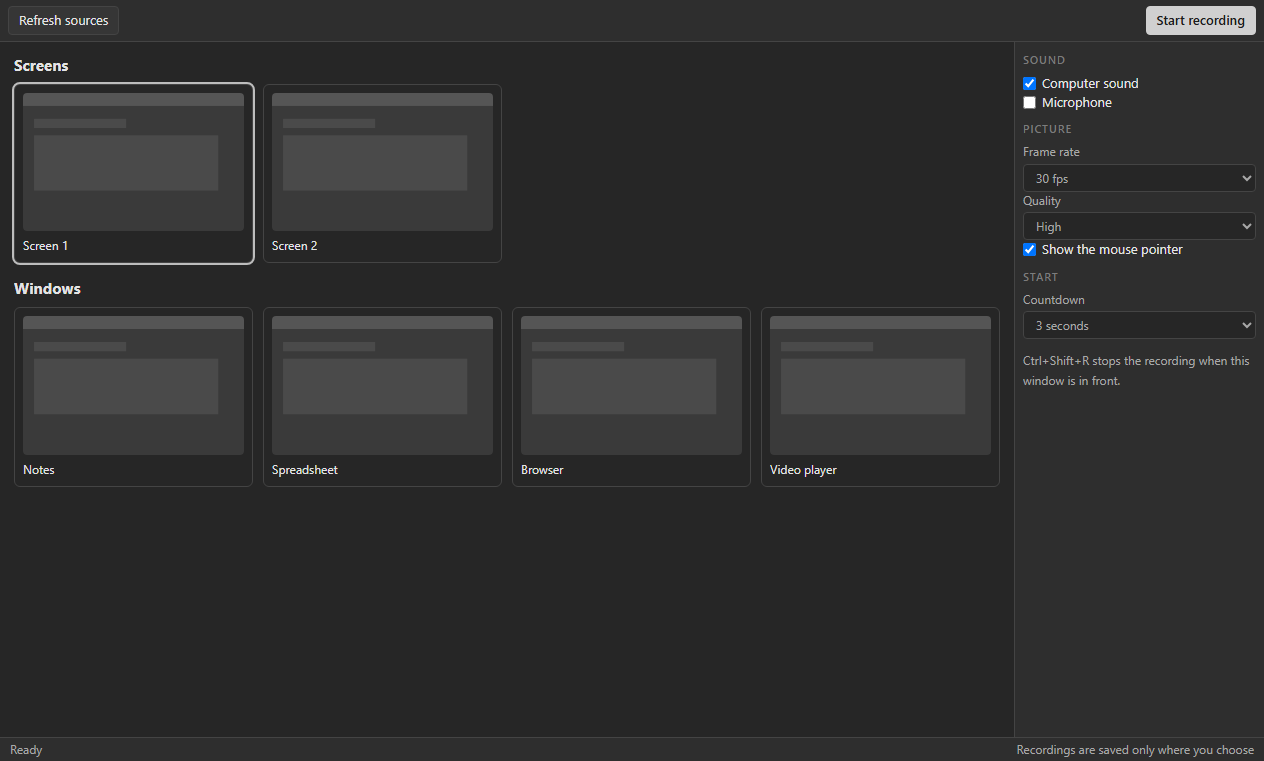
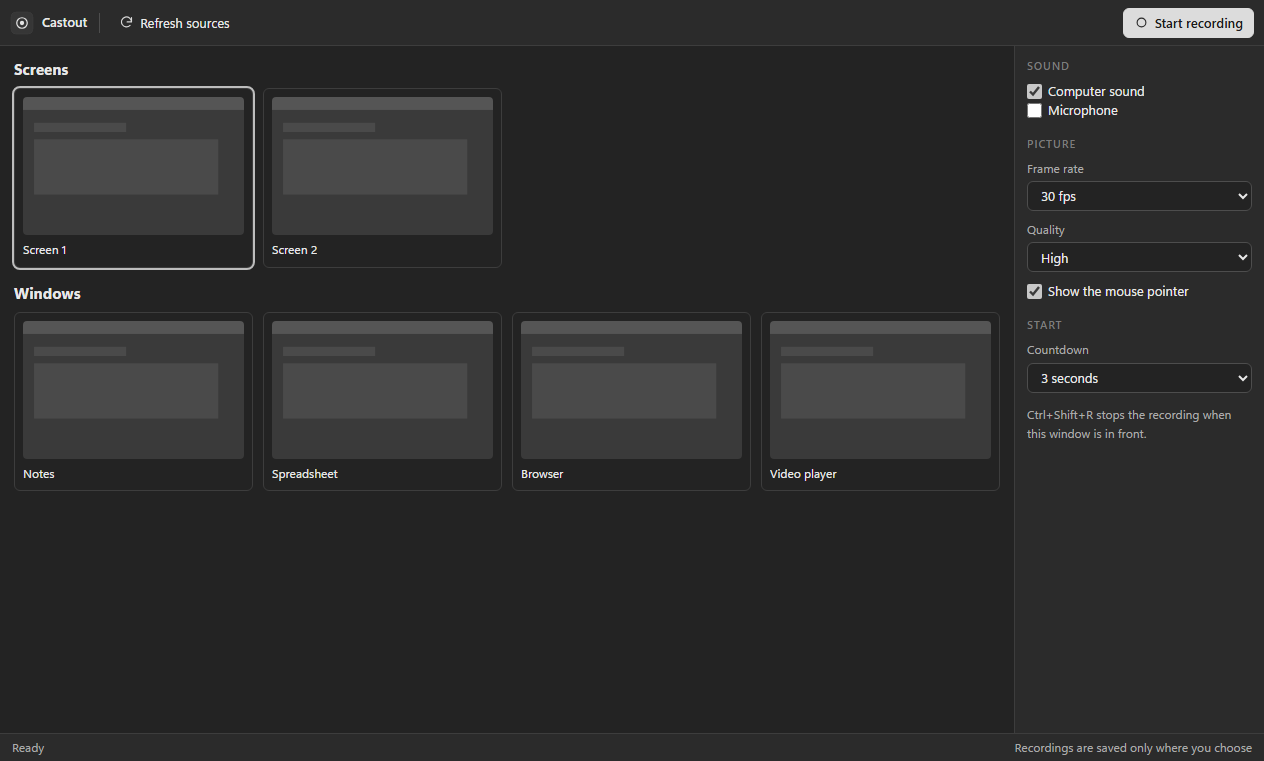
Castout 1.0.2: refreshed interface
Refreshed interface: line icons on every toolbar button, the app mark in the top bar, consistent control sizes and spacing, tidier side panels, and a toolbar that adapts to smaller windows. Also includes layout fixes and a fuller guide on the project page.

diff --git a/renderer/lookout.css b/renderer/lookout.css
@@ -1,62 +1,119 @@
-/* Lookout gray UI kit: flat, no glow, no gradients, no hue. */
+/* Lookout gray UI kit v2: flat, calm, no hue. Shared by every Lookout app. */
 :root{
-  --bg:#262626; --bg-2:#2e2e2e; --bg-3:#363636; --line:#444; --line-2:#555;
-  --text:#e4e4e4; --text-2:#a8a8a8; --text-3:#7c7c7c;
-  --accent:#d0d0d0; --accent-ink:#1c1c1c; --focus:#9a9a9a;
-  --radius:4px; --font:"Segoe UI",system-ui,-apple-system,sans-serif; --mono:Consolas,"Cascadia Mono",monospace;
+  --bg:#232323; --bg-2:#2b2b2b; --bg-3:#333333; --bg-4:#3b3b3b; --stage:#1c1c1c;
+  --line:#3d3d3d; --line-2:#4d4d4d; --line-3:#5c5c5c;
+  --text:#e8e8e8; --text-2:#ababab; --text-3:#7d7d7d;
+  --accent:#dcdcdc; --accent-ink:#1b1b1b; --focus:#a0a0a0;
+  --radius:6px; --h:30px;
+  --font:"Segoe UI Variable Text","Segoe UI",system-ui,-apple-system,sans-serif; --mono:Consolas,"Cascadia Mono",monospace;
 }
 *{box-sizing:border-box;margin:0;padding:0}
 html,body{height:100%;background:var(--bg);color:var(--text);font:13px/1.45 var(--font);overflow:hidden;user-select:none;-webkit-font-smoothing:antialiased}
 button,input,select,textarea{font:inherit;color:inherit}
 .app{display:grid;grid-template-rows:auto 1fr auto;height:100vh}
-.toolbar{display:flex;align-items:center;gap:4px;padding:6px 8px;background:var(--bg-2);border-bottom:1px solid var(--line);flex-wrap:wrap}
-.toolbar .sep{width:1px;align-self:stretch;background:var(--line);margin:2px 6px}
-.toolbar .grow{flex:1}
-.btn{background:var(--bg-3);border:1px solid var(--line);border-radius:var(--radius);padding:4px 10px;cursor:pointer;white-space:nowrap}
-.btn:hover{background:#404040;border-color:var(--line-2)}
+
+/* ---------- toolbar ---------- */
+.toolbar{display:flex;align-items:center;gap:2px;padding:7px 10px;min-height:46px;background:var(--bg-2);border-bottom:1px solid var(--line);flex-wrap:nowrap;overflow-x:auto;overflow-y:hidden;scrollbar-width:none}
+.toolbar::-webkit-scrollbar{height:0}
+.toolbar>*{flex-shrink:0}
+.toolbar .sep{width:1px;height:20px;align-self:center;background:var(--line-2);margin:0 6px}
+.toolbar .grow{flex:1 1 auto;min-width:8px}
+.toolbar input[type=text],.toolbar input[type=search]{width:170px}
+.brand{display:flex;align-items:center;gap:8px;padding-right:6px;margin-right:4px;font-weight:600;font-size:13px;color:var(--text)}
+.brand img{width:24px;height:24px;border-radius:6px;display:block}
+.brand+.sep{margin-left:0}
+
+/* ---------- buttons ---------- */
+.btn{display:inline-flex;align-items:center;justify-content:center;gap:6px;height:var(--h);padding:0 10px;background:var(--bg-3);border:1px solid var(--line);border-radius:var(--radius);cursor:pointer;white-space:nowrap;line-height:1;transition:background .08s,border-color .08s}
+.btn:hover{background:var(--bg-4);border-color:var(--line-2)}
 .btn:active{background:#2a2a2a}
-.btn:focus-visible,input:focus-visible,select:focus-visible,textarea:focus-visible,[tabindex]:focus-visible{outline:1px solid var(--focus);outline-offset:1px}
+.btn:focus-visible,input:focus-visible,select:focus-visible,textarea:focus-visible,[tabindex]:focus-visible{outline:2px solid var(--focus);outline-offset:1px}
 .btn.primary{background:var(--accent);color:var(--accent-ink);border-color:var(--accent);font-weight:600}
-.btn.primary:hover{background:#e0e0e0}
-.btn.on{background:#4a4a4a;border-color:var(--line-2)}
-.btn[disabled]{opacity:.4;pointer-events:none}
-.btn.icon{padding:4px 8px;min-width:30px;text-align:center}
-input[type=text],input[type=number],input[type=search],select,textarea{background:var(--bg);border:1px solid var(--line);border-radius:var(--radius);padding:4px 8px;user-select:text}
-input[type=range]{accent-color:#bdbdbd}
-input[type=color]{border:1px solid var(--line);background:var(--bg);width:28px;height:24px;padding:1px;border-radius:var(--radius)}
-label.field{display:flex;flex-direction:column;gap:3px;color:var(--text-2);font-size:12px}
-.main{display:flex;min-height:0}
-.sidebar{width:220px;background:var(--bg-2);border-right:1px solid var(--line);overflow:auto;padding:8px;flex-shrink:0}
-.sidebar.right{border-right:0;border-left:1px solid var(--line);width:250px}
-.sidebar h3,.panel-title{font-size:11px;text-transform:uppercase;letter-spacing:.08em;color:var(--text-3);margin:10px 0 6px;font-weight:600}
+.btn.primary:hover{background:#ececec;border-color:#ececec}
+.btn.on{background:#4a4a4a;border-color:var(--line-3);box-shadow:inset 0 0 0 1px #6a6a6a}
+.btn[disabled]{opacity:.38;pointer-events:none}
+.btn.icon{padding:0;width:var(--h);min-width:var(--h)}
+.btn .ic{width:15px;height:15px;flex-shrink:0;display:block;opacity:.92}
+.toolbar .btn:not(.primary):not(.on){background:transparent;border-color:transparent}
+.toolbar .btn:not(.primary):not(.on):hover{background:var(--bg-4);border-color:var(--line-2)}
+
+.toolbar.c1 .btn.minor:not(.primary):has(> svg.ic),.toolbar.c2 .btn:not(.primary):has(> svg.ic),.toolbar.c3 .btn:has(> svg.ic){font-size:0;gap:0;width:var(--h);padding:0}
+.toolbar.c2 .brand span{display:none}
+.toolbar.c2 input[type=text],.toolbar.c2 input[type=search]{width:120px}
+
+/* ---------- fields ---------- */
+input[type=text],input[type=number],input[type=search],input[type=date],select,textarea{background:var(--bg);border:1px solid var(--line-2);border-radius:var(--radius);padding:0 9px;height:var(--h);user-select:text;min-width:0}
+textarea{height:auto;padding:7px 9px;resize:vertical;line-height:1.45}
+select{padding-right:6px;cursor:pointer}
+input:hover,select:hover,textarea:hover{border-color:var(--line-3)}
+input[type=range]{accent-color:#c8c8c8;height:var(--h)}
+input[type=checkbox]{accent-color:#c8c8c8;width:15px;height:15px;cursor:pointer}
+input[type=color]{border:1px solid var(--line-2);background:var(--bg);width:30px;height:var(--h);padding:2px;border-radius:var(--radius)}
+label.field{display:flex;flex-direction:column;gap:4px;color:var(--text-2);font-size:12px}
+label.field>input,label.field>select,label.field>textarea{width:100%;color:var(--text);font-size:13px}
+
+/* ---------- layout ---------- */
+.main{display:flex;min-height:0;min-width:0}
+.sidebar{width:228px;background:var(--bg-2);border-right:1px solid var(--line);overflow:auto;padding:10px 12px 14px;flex-shrink:0}
+.sidebar.right{border-right:0;border-left:1px solid var(--line);width:272px}
+.sidebar h3,.panel-title{font-size:11px;text-transform:uppercase;letter-spacing:.08em;color:var(--text-3);margin:16px 0 8px;font-weight:600}
 .sidebar h3:first-child{margin-top:2px}
-.stage{flex:1;min-width:0;min-height:0;position:relative;background:#1f1f1f;overflow:auto}
-.status{display:flex;gap:16px;align-items:center;padding:3px 10px;background:var(--bg-2);border-top:1px solid var(--line);color:var(--text-2);font-size:12px}
+.sidebar input[type=text],.sidebar input[type=search],.sidebar select,.sidebar textarea{width:100%}
+.sidebar .row{flex-wrap:wrap}
+.sidebar .row>.btn{flex:1 1 auto}
+.sidebar .row>label.field{flex:1 1 0;min-width:0}
+.sidebar label.field{margin-bottom:10px}
+.sidebar .btn{width:auto}
+.sidebar>.btn{width:100%;margin-bottom:6px}
+.stage{flex:1;min-width:0;min-height:0;position:relative;background:var(--stage);overflow:auto}
+.status{display:flex;gap:18px;align-items:center;height:28px;padding:0 12px;background:var(--bg-2);border-top:1px solid var(--line);color:var(--text-2);font-size:12px;white-space:nowrap;overflow:hidden}
 .status .grow{flex:1}
 .list{display:flex;flex-direction:column;gap:2px}
-.list .item{padding:5px 8px;border-radius:var(--radius);cursor:pointer;border:1px solid transparent;display:flex;gap:6px;align-items:center}
+.list .item{padding:6px 8px;border-radius:var(--radius);cursor:pointer;border:1px solid transparent;display:flex;gap:6px;align-items:center;min-height:30px}
 .list .item:hover{background:var(--bg-3)}
-.list .item.sel{background:#444;border-color:var(--line-2)}
+.list .item.sel{background:var(--bg-4);border-color:var(--line-2)}
 .row{display:flex;gap:6px;align-items:center}
+.grow{flex:1 1 auto;min-width:0}
+.brow{display:grid;grid-template-columns:1fr 1fr;gap:6px;margin-bottom:6px}
+.brow>.btn{justify-content:flex-start}
+.frow{display:flex;align-items:center;gap:8px;margin-bottom:8px;color:var(--text-2)}
+.frow>input[type=text],.frow>input[type=number]{flex:1;color:var(--text)}
+.frow>span:first-child{min-width:44px}
+.frow>select{flex:1;min-width:0}
+.sidebar input[type=range]{width:100%}
+.sidebar .swatches{margin-bottom:10px}
+.list .item .btn{height:24px!important;width:26px!important;padding:0!important;font-size:0!important;gap:0;background:transparent;border-color:transparent;opacity:.55}
+.list .item:hover .btn,.list .item.sel .btn{opacity:1}
+.list .item .btn:hover{background:var(--bg-4);border-color:var(--line-2)}
 .col{display:flex;flex-direction:column;gap:6px}
 .muted{color:var(--text-2)}
-.empty{position:absolute;inset:0;display:flex;flex-direction:column;align-items:center;justify-content:center;gap:10px;color:var(--text-3);text-align:center;padding:20px}
-.empty .big{font-size:18px;color:var(--text-2)}
-.modal-back{position:fixed;inset:0;background:rgba(0,0,0,.55);display:flex;align-items:center;justify-content:center;z-index:50}
-.modal{background:var(--bg-2);border:1px solid var(--line-2);border-radius:6px;min-width:340px;max-width:80vw;max-height:85vh;overflow:auto;padding:16px;display:flex;flex-direction:column;gap:12px}
-.modal h2{font-size:15px;font-weight:600}
-.toast{position:fixed;left:50%;bottom:34px;transform:translateX(-50%);background:var(--bg-3);border:1px solid var(--line-2);padding:7px 14px;border-radius:var(--radius);z-index:60}
-.progress{height:6px;background:var(--bg);border:1px solid var(--line);border-radius:3px;overflow:hidden}
-.progress>i{display:block;height:100%;background:var(--accent);width:0}
-table.grid{border-collapse:collapse;width:100%}
-table.grid th,table.grid td{border:1px solid var(--line);padding:4px 8px;text-align:left}
-table.grid th{background:var(--bg-2);color:var(--text-2);font-weight:600}
-::-webkit-scrollbar{width:11px;height:11px}
-::-webkit-scrollbar-thumb{background:#4a4a4a;border:2px solid var(--bg);border-radius:6px}
-::-webkit-scrollbar-track{background:var(--bg)}
-.swatches{display:flex;flex-wrap:wrap;gap:4px}
-.swatches button{width:22px;height:22px;border:1px solid var(--line-2);border-radius:3px;cursor:pointer;padding:0}
-.swatches button.on{outline:2px solid var(--accent);outline-offset:1px}
-.progress>div{display:block;height:100%;background:var(--accent)}
-table.grid tr.sel td{background:#3a3a3a}
+.empty{position:absolute;inset:0;display:flex;flex-direction:column;align-items:center;justify-content:center;gap:12px;color:var(--text-3);text-align:center;padding:24px}
+.empty .big{font-size:18px;color:var(--text-2);font-weight:600}
+
+/* ---------- overlays ---------- */
+.modal-back{position:fixed;inset:0;background:rgba(0,0,0,.6);display:flex;align-items:center;justify-content:center;z-index:50}
+.modal{background:var(--bg-2);border:1px solid var(--line-2);border-radius:10px;min-width:360px;max-width:80vw;max-height:85vh;overflow:auto;padding:20px;display:flex;flex-direction:column;gap:14px;box-shadow:0 18px 50px rgba(0,0,0,.5)}
+.modal h2{font-size:16px;font-weight:600}
+.toast{position:fixed;left:50%;bottom:40px;transform:translateX(-50%);background:var(--bg-4);border:1px solid var(--line-3);padding:9px 16px;border-radius:8px;z-index:60;box-shadow:0 8px 24px rgba(0,0,0,.4)}
+.progress{height:6px;background:var(--bg);border:1px solid var(--line);border-radius:4px;overflow:hidden}
+.progress>i,.progress>div{display:block;height:100%;background:var(--accent);width:0}
+
+/* ---------- tables ---------- */
+table.grid{border-collapse:separate;border-spacing:0;width:100%}
+table.grid th,table.grid td{border-bottom:1px solid var(--line);padding:0 12px;height:38px;text-align:left;vertical-align:middle}
+table.grid th{background:var(--bg-2);color:var(--text-2);font-weight:600;font-size:12px;position:sticky;top:0;z-index:1;height:34px}
+table.grid tbody tr:hover td{background:#262626}
+table.grid tr.sel td{background:#353535}
 table.grid tbody tr{cursor:default}
+table.grid td .btn{height:26px;margin-left:8px;vertical-align:middle}
+table.grid td{white-space:nowrap}
+
+/* ---------- misc ---------- */
+::-webkit-scrollbar{width:11px;height:11px}
+::-webkit-scrollbar-thumb{background:#474747;border:3px solid transparent;background-clip:padding-box;border-radius:8px}
+::-webkit-scrollbar-thumb:hover{background:#5a5a5a;background-clip:padding-box;border:3px solid transparent}
+::-webkit-scrollbar-track,::-webkit-scrollbar-corner{background:transparent}
+.swatches{display:flex;flex-wrap:wrap;gap:6px}
+.swatches button{width:24px;height:24px;border:1px solid var(--line-3);border-radius:5px;cursor:pointer;padding:0}
+.swatches button.on{outline:2px solid var(--accent);outline-offset:2px}
+kbd{font-family:var(--mono);font-size:11px;background:var(--bg-3);border:1px solid var(--line-2);border-bottom-width:2px;border-radius:4px;padding:0 5px}

diff --git a/renderer/kit.js b/renderer/kit.js
@@ -1,0 +1,137 @@
+// Lookout UI kit: adds the app mark to the toolbar and monochrome line icons to buttons.
+// Purely visual. Buttons keep their text, so nothing else changes.
+(function () {
+  'use strict';
+  const NS = 'http://www.w3.org/2000/svg';
+  const P = {
+    plus: 'M12 5v14M5 12h14',
+    file: 'M14 3H6v18h12V7zM14 3v4h4M12 11v6M9 14h6',
+    folder: 'M3 7V5h6l2 2h10v12H3z',
+    save: 'M5 3h11l3 3v15H5zM8 3v5h7V3M8 21v-7h8v7',
+    saveas: 'M5 3h11l3 3v6M5 3v18h7M8 3v5h7V3M15 21l6-6-2-2-6 6v2z',
+    undo: 'M9 14L4 9l5-5M4 9h10a6 6 0 010 12h-3',
+    redo: 'M15 14l5-5-5-5M20 9H10a6 6 0 000 12h3',
+    trash: 'M4 7h16M10 11v6M14 11v6M6 7l1 14h10l1-14M9 7V4h6v3',
+    copy: 'M9 9h11v11H9zM5 15H4V4h11v1',
+    paste: 'M9 4h6v3H9zM8 5H5v16h14V5h-3',
+    dup: 'M8 8h12v12H8zM4 16V4h12M14 11v6M11 14h6',
+    download: 'M12 4v11M7 10l5 5 5-5M5 20h14',
+    fit: 'M4 9V4h5M15 4h5v5M20 15v5h-5M9 20H4v-5',
+    play: 'M7 4l13 8-13 8z',
+    stop: 'M6 6h12v12H6z',
+    pause: 'M7 5h3v14H7zM14 5h3v14h-3z',
+    rec: 'M12 5a7 7 0 100 14 7 7 0 000-14z',
+    scissors: 'M6 9a3 3 0 100-6 3 3 0 000 6zM6 21a3 3 0 100-6 3 3 0 000 6zM8.2 7.8L20 19M8.2 16.2L20 5',
+    pointer: 'M5 3l14 7-6 2-2 6z',
+    hand: 'M8 13V6a1.5 1.5 0 013 0v5M11 11V4.5a1.5 1.5 0 013 0V11M14 11V6a1.5 1.5 0 013 0v8a7 7 0 01-7 7 6 6 0 01-5-3l-2.5-4.5a1.5 1.5 0 012.6-1.5L8 15',
+    connector: 'M5 19L19 5M13 5h6v6',
+    frame: 'M7 3v18M17 3v18M3 7h18M3 17h18',
+    rect: 'M4 6h16v12H4z',
+    ellipse: 'M12 5c4.4 0 8 3.1 8 7s-3.6 7-8 7-8-3.1-8-7 3.6-7 8-7z',
+    line: 'M5 19L19 5',
+    text: 'M5 6V4h14v2M12 4v16M9 20h6',
+    highlight: 'M14 4l6 6-8 8H6v-6zM4 21h16',
+    pen: 'M4 20l4-1 11-11-3-3L5 16zM14 7l3 3',
+    redact: 'M4 8h16v8H4z',
+    sign: 'M3 17c3-6 5-9 7-9 3 0-2 9 1 9 2 0 3-3 5-3s1 3 5 3M3 21h18',
+    eraser: 'M8 20l-4-4 10-10 6 6-10 8zM12 20h8',
+    search: 'M11 4a7 7 0 100 14 7 7 0 000-14zM16 16l5 5',
+    list: 'M9 6h11M9 12h11M9 18h11M4 6h.01M4 12h.01M4 18h.01',
+    child: 'M5 4v8a3 3 0 003 3h11M15 11l4 4-4 4',
+    sibling: 'M5 6h14M5 12h14M12 15v6M9 18h6',
+    collapse: 'M6 9l6 6 6-6',
+    expand: 'M7 14l5-5 5 5',
+    calendar: 'M4 6h16v14H4zM4 10h16M8 3v5M16 3v5',
+    diamond: 'M12 3l9 9-9 9-9-9z',
+    up: 'M12 19V5M6 11l6-6 6 6',
+    down: 'M12 5v14M6 13l6 6 6-6',
+    refresh: 'M20 11a8 8 0 10-2.3 5.7M20 4v7h-7',
+    check: 'M4 12l5 5L20 6',
+    convert: 'M4 8h13M13 4l4 4-4 4M20 16H7M11 12l-4 4 4 4',
+    eye: 'M2 12s4-7 10-7 10 7 10 7-4 7-10 7S2 12 2 12zM12 9a3 3 0 100 6 3 3 0 000-6z',
+    info: 'M12 3a9 9 0 100 18 9 9 0 000-18zM12 11v6M12 7.5h.01',
+    front: 'M8 8h12v12H8zM4 4h10v3M4 4v10h3',
+    back: 'M4 4h12v12H4zM20 8v12H8v-4',
+    merge: 'M6 3v6a6 6 0 006 6h6M15 12l3 3-3 3M6 21v-4',
+    rotl: 'M4 10a8 8 0 112 6M4 4v6h6',
+    rotr: 'M20 10a8 8 0 10-2 6M20 4v6h-6',
+    blank: 'M6 3h12v18H6z',
+    extract: 'M14 3H6v18h12V7zM14 3v4h4M12 10v7M9 14l3 3 3-3',
+    mic: 'M12 3a3 3 0 00-3 3v6a3 3 0 006 0V6a3 3 0 00-3-3zM6 11a6 6 0 0012 0M12 17v4',
+    clear: 'M6 6l12 12M18 6L6 18',
+    gaps: 'M3 6v12M21 6v12M7 12h10M10 9l-3 3 3 3M14 9l3 3-3 3',
+    title: 'M4 5h16v14H4zM8 9h8M12 9v7',
+    dashed: 'M4 12h3M10 12h4M17 12h3',
+    arrow: 'M4 12h15M14 7l5 5-5 5',
+    elbow: 'M4 6h8v12h8',
+    label: 'M3 12l6-7h12v14H9zM8 12h.01',
+    image: 'M4 5h16v14H4zM4 16l5-5 4 4 3-3 4 4M15 9h.01',
+    vector: 'M5 19L12 5l7 14M8 13h8M3 19h4M17 19h4',
+    table: 'M4 5h16v14H4zM4 10h16M4 15h16M10 5v14',
+    lock: 'M6 11h12v9H6zM8 11V8a4 4 0 018 0v3',
+    unlock: 'M6 11h12v9H6zM8 11V8a4 4 0 017.5-2',
+    eyeoff: 'M3 3l18 18M10.6 6.1A10 10 0 0112 6c6 0 10 6 10 6a17 17 0 01-3 3.6M6.6 6.6C3.8 8.3 2 12 2 12s4 7 10 7a9.7 9.7 0 004.4-1',
+  };
+  const MAP = {
+    'New': 'file', 'Open': 'folder', 'Open project': 'folder', 'Open file': 'folder', 'Save': 'save', 'Save project': 'save', 'Save as': 'saveas',
+    'Undo': 'undo', 'Redo': 'redo', 'Delete': 'trash', 'Delete clip': 'trash', 'Remove selected': 'trash', 'Copy': 'copy', 'Paste': 'paste', 'Duplicate': 'dup',
+    'Export PNG': 'image', 'Export SVG': 'vector', 'Export CSV': 'table', 'Export': 'download', 'Export page as PNG': 'download', 'Extract all text': 'text',
+    'Fit': 'fit', 'Play': 'play', 'Stop': 'stop', 'Pause': 'pause', 'Resume': 'play', 'Record': 'rec', 'Split': 'scissors', 'Split here': 'scissors',
+    'Select': 'pointer', 'Move': 'pointer', 'Hand': 'hand', 'Connector': 'connector', 'Frame': 'frame', 'Rectangle': 'rect', 'Box': 'rect', 'Ellipse': 'ellipse', 'Line': 'line', 'Text': 'text',
+    'Highlight': 'highlight', 'Pen': 'pen', 'Redact': 'redact', 'Sign': 'sign', 'Erase': 'eraser', 'Preview': 'eye', 'Outline': 'list',
+    'Add child': 'child', 'Add sibling': 'sibling', 'Edit': 'pen', 'Collapse': 'collapse', 'Expand all': 'expand', 'Today': 'calendar',
+    'Add task': 'plus', 'Add milestone': 'diamond', 'Move up': 'up', 'Move down': 'down', 'Up': 'up', 'Down': 'down',
+    'Import media': 'plus', 'Add files': 'plus', 'Output folder': 'folder', 'Convert all': 'convert', 'Clear finished': 'clear', 'Show': 'folder', 'Show in folder': 'folder',
+    'Check file': 'check', 'Repair to new file': 'download', 'Refresh sources': 'refresh', 'Start recording': 'rec', 'Stop and review': 'stop', 'New recording': 'rec',
+    'Check for updates': 'refresh', 'Info': 'info', 'Merge': 'merge', 'Rotate L': 'rotl', 'Rotate R': 'rotr', 'Blank': 'blank', 'Extract': 'extract',
+    'Front': 'front', 'Back': 'back', 'Close gaps': 'gaps', 'Title text': 'title', 'Dashed': 'dashed', 'Arrow on/off': 'arrow', 'Straight / Elbow': 'elbow', 'Edit label': 'label',
+    'Cut': 'scissors', 'Trim to selection': 'fit', 'Locate missing files': 'search',
+  };
+  const LMAP = { 'Hide': 'eye', 'Show': 'eyeoff', 'Lock': 'unlock', 'Unlock': 'lock' };
+  function icon(name) {
+    const s = document.createElementNS(NS, 'svg');
+    s.setAttribute('viewBox', '0 0 24 24'); s.setAttribute('class', 'ic'); s.setAttribute('aria-hidden', 'true');
+    s.setAttribute('fill', 'none'); s.setAttribute('stroke', 'currentColor'); s.setAttribute('stroke-width', '1.8');
+    s.setAttribute('stroke-linecap', 'round'); s.setAttribute('stroke-linejoin', 'round');
+    const p = document.createElementNS(NS, 'path'); p.setAttribute('d', P[name]); s.append(p);
+    return s;
+  }
+  function decorate(b) {
+    if (b.tagName !== 'BUTTON' || !b.classList.contains('btn')) return;
+    const label = (b.textContent || '').trim();
+    const name = (b.closest('.list') && LMAP[label]) || MAP[label];
+    const cur = b.querySelector(':scope > svg.ic');
+    if (cur && cur.dataset.for === label) return;
+    if (cur) cur.remove();
+    if (!name) return;
+    const s = icon(name); s.dataset.for = label; b.prepend(s);
+    if (!b.title) b.title = label;
+  }
+  function brand(bar) {
+    if (!bar || bar.querySelector(':scope > .brand') || (document.title && (bar.textContent || '').includes(document.title))) return;
+    const name = document.title || '';
+    const d = document.createElement('div'); d.className = 'brand';
+    const img = document.createElement('img'); img.src = 'brand.svg'; img.alt = '';
+    const t = document.createElement('span'); t.textContent = name;
+    d.append(img, t);
+    const sep = document.createElement('span'); sep.className = 'sep';
+    bar.prepend(d, sep);
+  }
+  const MINOR = new Set(['New', 'Open', 'Undo', 'Redo', 'Copy', 'Paste', 'Duplicate', 'Delete', 'Front', 'Back', 'Fit', 'Hand', 'Merge', 'Move up', 'Move down', 'Today', 'Cut', 'Dashed', 'Arrow on/off', 'Straight / Elbow', 'Edit label', 'Output folder', 'Remove selected', 'Clear finished', 'Refresh sources', 'Stop', 'Collapse', 'Expand all', 'Select', 'Move']);
+  function fitBar(bar) {
+    bar.classList.remove('c1', 'c2', 'c3');
+    bar.querySelectorAll(':scope > .btn').forEach((b) => b.classList.toggle('minor', MINOR.has((b.textContent || '').trim())));
+    for (const c of ['c1', 'c2', 'c3']) { if (bar.scrollWidth <= bar.clientWidth + 1) break; bar.classList.add(c); }
+  }
+  window.addEventListener('resize', () => { const bar = document.querySelector('.app > .toolbar'); if (bar) fitBar(bar); });
+  let queued = false;
+  function sweep() {
+    queued = false;
+    document.querySelectorAll('.btn').forEach(decorate);
+    const bar = document.querySelector('.app > .toolbar');
+    if (bar && bar.children.length) { brand(bar); fitBar(bar); }
+  }
+  const mo = new MutationObserver(() => { if (!queued) { queued = true; requestAnimationFrame(sweep); } });
+  function start() { mo.observe(document.body, { childList: true, subtree: true, characterData: true }); sweep(); }
+  if (document.readyState === 'loading') document.addEventListener('DOMContentLoaded', start); else start();
+})();

diff --git a/renderer/index.html b/renderer/index.html
@@ -10,6 +10,7 @@
 </head>
 <body>
 <div class="app" id="app"></div>
+<script src="kit.js"></script>
 <script src="app.js"></script>
 </body>
 </html>

diff --git a/README.md b/README.md
@@ -1,6 +1,6 @@
 <p align="center"><img src="screenshots/banner.png" alt="Castout" width="100%"></p>
 
-<p align="center"><b>Record your screen</b><br>Version 1.0.1 for Windows · Free · Offline · No account</p>
+<p align="center"><b>Record your screen</b><br>Version 1.0.2 for Windows · Free · Offline · No account</p>
 
 <p align="center"><a href="https://github.com/plawanpawin-byte/castout/releases/latest"><b>Download Castout</b></a> · <a href="https://github.com/plawanpawin-byte/Lookout">All Lookout apps</a></p>
 
@@ -11,6 +11,12 @@ Castout records your screen or a single window, with computer sound and an optio
 **Made for:** Tutorials, bug reports, demos, game clips and meetings you need to keep.
 
 ![Castout](screenshots/01-choose-what-to-record.png)
+
+**On this page:** [Screenshots](#see-it-in-action) · [Interface](#the-interface) · [Features](#everything-it-can-do) · [How to use it](#how-to-use-it) · [Shortcuts](#keyboard-shortcuts) · [Formats](#files-and-formats) · [Privacy](#private-by-design) · [Install](#install) · [Questions](#questions)
+
+## What is new in 1.0.2
+
+A refreshed interface: every toolbar button now has a clear line icon, the app's mark sits at the top left, controls share one height and spacing, panels line up in tidy grids, and the toolbar keeps every button reachable on smaller windows by switching less important buttons to icons.
 
 ## See it in action
 
@@ -49,6 +55,12 @@ The file is written only where you choose.
 ![Output](screenshots/06-saved-mp4-frame.png)
 
 A frame from the saved MP4.
+
+## The interface
+
+- **Top bar:** refresh the list of screens and windows, and start recording.
+- **Centre:** large previews of each screen and window; click one to choose it.
+- **Right panel:** sound, picture and countdown options. After recording, the centre shows the take with a format picker and a Save button.
 
 ## Everything it can do
 
@@ -120,5 +132,15 @@ Capturing the screen needs your permission; Castout only captures what you pick.
 ## About Lookout
 
 Castout belongs to the **[Lookout](https://github.com/plawanpawin-byte/Lookout)** family: ten small, private Windows apps for documents and media, all with the same calm grey look and the same promise that your files stay yours. Install and update them together with the [Lookout launcher](https://github.com/plawanpawin-byte/lookout-launcher).
+
+- **[Pageout](https://github.com/plawanpawin-byte/pageout)**: read, annotate and sign pdfs
+- **[Chartout](https://github.com/plawanpawin-byte/chartout)**: flowcharts and diagrams
+- **[Branchout](https://github.com/plawanpawin-byte/branchout)**: mind maps and outlines
+- **[Planout](https://github.com/plawanpawin-byte/planout)**: plans and gantt timelines
+- **[Frameout](https://github.com/plawanpawin-byte/frameout)**: screen design and prototypes
+- **[Cutout](https://github.com/plawanpawin-byte/cutout)**: video editing on a timeline
+- **[Shiftout](https://github.com/plawanpawin-byte/shiftout)**: convert and compress media
+- **[Mendout](https://github.com/plawanpawin-byte/mendout)**: repair damaged media
+- **[Tuneout](https://github.com/plawanpawin-byte/tuneout)**: record and edit audio
 
 Released under the MIT License.
